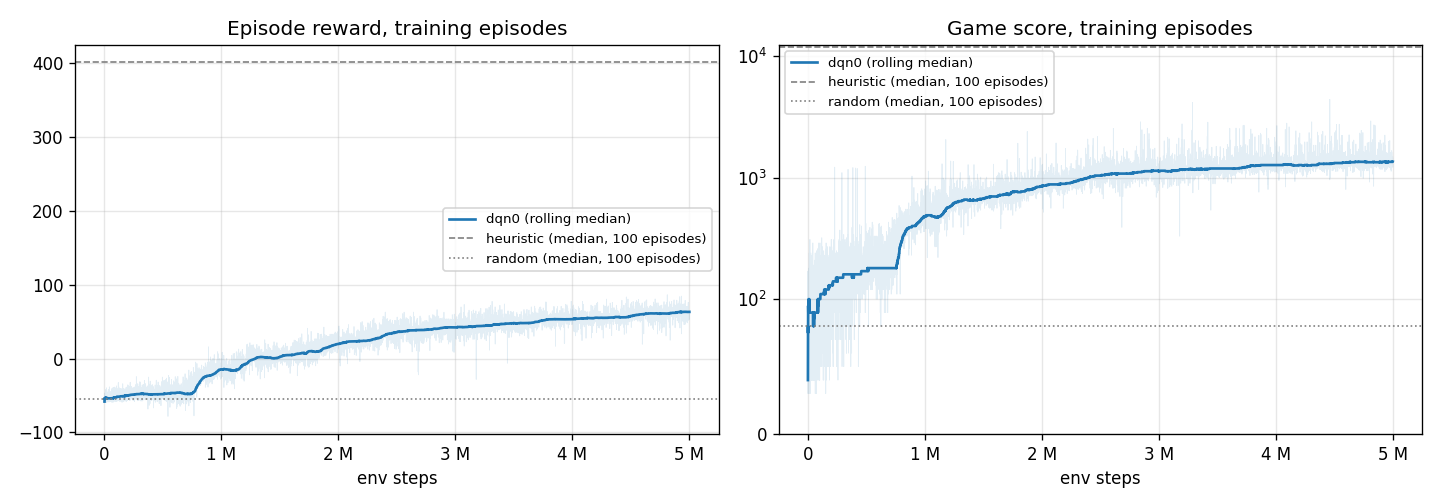
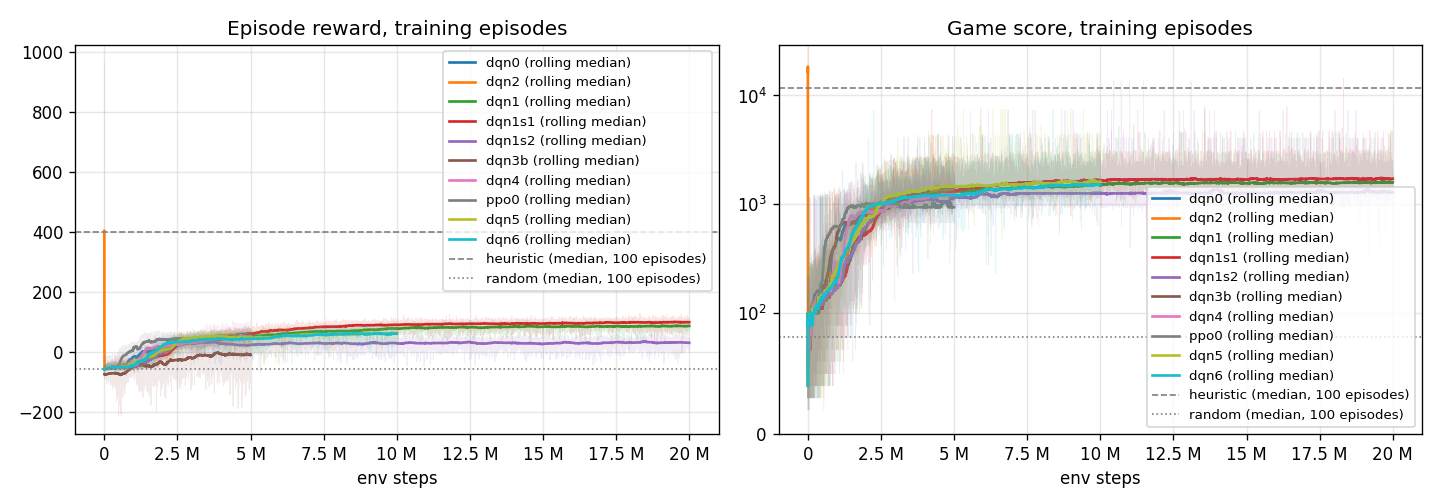
overnight: dqn1 seeds 1/2 evaluated, summary table, plots with all runs
dqn1 over 3 seeds (best_food.pt, 100 games, eps 0): mean food 140.6 +- 28.5
(151.6 / 168.8 / 101.5), level 1 never cleared. dqn1s1 eats 168.8 of 172
but always leaves the same two dots at (25,19), (27,19).

diff --git a/docs/results.md b/docs/results.md
@@ -44,18 +44,94 @@ Reward is the env's event reward (see docs/observation.md), score the game's.
 | dqn dqn1@19.00M | 20 | 0..19 | 40.3 | 46.9 | 1652 | 1610 | 1890 | 0% | 0% | 3411 | 10% | 44.0 | af91590 |
 | dqn dqn1@19.50M | 20 | 0..19 | 6.9 | -0.4 | 1716 | 1685 | 2250 | 0% | 0% | 6035 | 50% | 77.8 | af91590 |
 | dqn dqn1@20.00M | 20 | 0..19 | 21.0 | 45.4 | 1755 | 1600 | 3210 | 0% | 0% | 4551 | 25% | 29.3 | af91590 |
+| dqn dqn1s1/best_food.pt, eps 0 | 100 | 0..99 | 56.1 | 79.5 | 1983 | 1855 | 4690 | 0% | 0% | 3682 | 20% | 256.7 | 15d785e |
+| dqn dqn1s1/best_food.pt, eps 0.05 | 100 | 0..99 | 99.0 | 100.2 | 1847 | 1730 | 4750 | 0% | 0% | 592 | 0% | 39.7 | 15d785e |
+| dqn dqn1s1/best_food.pt, no ghosts, eps 0 | 3 | 0..2 | -121.0 | -121.0 | 710 | 710 | 710 | 0% | 0% | 10000 | 100% | 18.6 | 15d785e |
+| dqn dqn1s1/best_food.pt, no ghosts, eps 0.05 | 20 | 0..19 | -99.7 | -101.5 | 922 | 905 | 1460 | 0% | 0% | 10000 | 100% | 154.8 | 15d785e |
 | dqn dqn1s1@00.50M | 20 | 0..19 | -58.1 | -58.4 | 108 | 90 | 190 | 0% | 0% | 449 | 0% | 13.2 | b82dea5 |
 | dqn dqn1s1@01.00M | 20 | 0..19 | -52.1 | -51.8 | 155 | 150 | 180 | 0% | 0% | 379 | 0% | 10.7 | b82dea5 |
 | dqn dqn1s1@01.50M | 20 | 0..19 | -30.2 | -32.3 | 330 | 300 | 510 | 0% | 0% | 338 | 0% | 7.3 | 3d34d9e |
 | dqn dqn1s1@02.00M | 20 | 0..19 | -6.5 | -4.8 | 626 | 635 | 850 | 0% | 0% | 764 | 0% | 15.8 | 3d34d9e |
 | dqn dqn1s1@02.50M | 20 | 0..19 | 24.9 | 24.2 | 998 | 925 | 1900 | 0% | 0% | 613 | 0% | 13.0 | 3d34d9e |
 | dqn dqn1s1@03.00M | 20 | 0..19 | 34.5 | 33.6 | 1146 | 1030 | 2440 | 0% | 0% | 688 | 0% | 14.4 | 3d34d9e |
+| dqn dqn1s1@03.50M | 20 | 0..19 | 29.5 | 29.4 | 998 | 970 | 1150 | 0% | 0% | 774 | 0% | 16.1 | e8a886a |
+| dqn dqn1s1@04.00M | 20 | 0..19 | 44.4 | 41.4 | 1171 | 1140 | 1390 | 0% | 0% | 862 | 0% | 17.5 | e8a886a |
+| dqn dqn1s1@04.50M | 20 | 0..19 | 52.7 | 53.2 | 1252 | 1225 | 1820 | 0% | 0% | 721 | 0% | 14.2 | e8a886a |
+| dqn dqn1s1@05.00M | 20 | 0..19 | 65.0 | 66.0 | 1384 | 1350 | 2110 | 0% | 0% | 745 | 0% | 15.5 | e8a886a |
+| dqn dqn1s1@05.50M | 20 | 0..19 | 72.5 | 73.1 | 1546 | 1500 | 2150 | 0% | 0% | 897 | 0% | 18.7 | e8a886a |
+| dqn dqn1s1@06.00M | 20 | 0..19 | 75.2 | 76.2 | 1600 | 1520 | 2100 | 0% | 0% | 838 | 0% | 17.4 | e8a886a |
+| dqn dqn1s1@06.50M | 20 | 0..19 | 80.4 | 79.1 | 1592 | 1520 | 2250 | 0% | 0% | 801 | 0% | 16.7 | cc6fdbe |
+| dqn dqn1s1@07.00M | 20 | 0..19 | 82.5 | 84.3 | 1607 | 1585 | 2280 | 0% | 0% | 973 | 0% | 19.8 | cc6fdbe |
+| dqn dqn1s1@07.50M | 20 | 0..19 | 85.3 | 86.4 | 1784 | 1615 | 3000 | 0% | 0% | 918 | 0% | 19.2 | cc6fdbe |
+| dqn dqn1s1@08.00M | 20 | 0..19 | 78.9 | 82.7 | 1716 | 1630 | 2980 | 0% | 0% | 1362 | 0% | 27.5 | cc6fdbe |
+| dqn dqn1s1@08.50M | 20 | 0..19 | 75.6 | 77.8 | 1689 | 1635 | 2270 | 0% | 0% | 1455 | 0% | 29.7 | cc6fdbe |
+| dqn dqn1s1@09.00M | 20 | 0..19 | 80.7 | 88.2 | 1728 | 1670 | 2330 | 0% | 0% | 1675 | 5% | 33.2 | cc6fdbe |
+| dqn dqn1s1@09.50M | 20 | 0..19 | 76.0 | 83.6 | 1724 | 1690 | 2290 | 0% | 0% | 1649 | 0% | 29.3 | cc6fdbe |
+| dqn dqn1s1@10.00M | 20 | 0..19 | 83.1 | 82.5 | 1868 | 1700 | 3090 | 0% | 0% | 1561 | 0% | 31.5 | cc6fdbe |
+| dqn dqn1s1@10.50M | 20 | 0..19 | 72.7 | 82.4 | 1856 | 1700 | 3090 | 0% | 0% | 1978 | 0% | 39.6 | cc6fdbe |
+| dqn dqn1s1@11.00M | 20 | 0..19 | 74.1 | 76.8 | 1928 | 1730 | 3100 | 0% | 0% | 2144 | 0% | 43.3 | cc6fdbe |
+| dqn dqn1s1@11.50M | 20 | 0..19 | 77.9 | 80.8 | 1840 | 1700 | 3080 | 0% | 0% | 1818 | 0% | 36.7 | cc6fdbe |
+| dqn dqn1s1@12.00M | 20 | 0..19 | 71.8 | 76.6 | 1837 | 1730 | 3090 | 0% | 0% | 2119 | 0% | 39.3 | cc6fdbe |
+| dqn dqn1s1@12.50M | 20 | 0..19 | 75.0 | 81.6 | 1939 | 1730 | 4730 | 0% | 0% | 2047 | 0% | 37.6 | cc6fdbe |
+| dqn dqn1s1@13.00M | 20 | 0..19 | 63.6 | 75.2 | 1835 | 1690 | 3090 | 0% | 0% | 2621 | 5% | 46.4 | cc6fdbe |
+| dqn dqn1s1@13.50M | 20 | 0..19 | 75.8 | 78.0 | 1931 | 1725 | 3090 | 0% | 0% | 1980 | 0% | 35.7 | cc6fdbe |
+| dqn dqn1s1@14.00M | 20 | 0..19 | 66.6 | 82.1 | 1882 | 1700 | 3100 | 0% | 0% | 2431 | 5% | 46.2 | cc6fdbe |
+| dqn dqn1s1@14.50M | 20 | 0..19 | 68.6 | 76.3 | 1801 | 1730 | 2300 | 0% | 0% | 2414 | 5% | 44.9 | cc6fdbe |
+| dqn dqn1s1@15.00M | 20 | 0..19 | 60.7 | 77.7 | 1806 | 1700 | 2300 | 0% | 0% | 2782 | 5% | 51.6 | cc6fdbe |
+| dqn dqn1s1@15.50M | 20 | 0..19 | 65.1 | 80.0 | 1852 | 1730 | 3090 | 0% | 0% | 2793 | 10% | 55.8 | cc6fdbe |
+| dqn dqn1s1@16.00M | 20 | 0..19 | 79.4 | 87.4 | 1832 | 1730 | 3100 | 0% | 0% | 1929 | 5% | 38.1 | cc6fdbe |
+| dqn dqn1s1@16.50M | 20 | 0..19 | 44.6 | 59.3 | 1910 | 1745 | 3090 | 0% | 0% | 4132 | 20% | 81.0 | cc6fdbe |
+| dqn dqn1s1@17.00M | 20 | 0..19 | 67.4 | 80.6 | 1896 | 1710 | 3100 | 0% | 0% | 2459 | 5% | 43.2 | cc6fdbe |
+| dqn dqn1s1@17.50M | 20 | 0..19 | 59.1 | 79.9 | 1816 | 1720 | 3120 | 0% | 0% | 3272 | 20% | 60.6 | cc6fdbe |
+| dqn dqn1s1@18.00M | 20 | 0..19 | 66.9 | 83.6 | 2124 | 1760 | 4740 | 0% | 0% | 2898 | 10% | 54.2 | 15d785e |
+| dqn dqn1s1@18.50M | 20 | 0..19 | 38.6 | 55.3 | 1871 | 1760 | 3120 | 0% | 0% | 4375 | 15% | 80.5 | 15d785e |
+| dqn dqn1s1@19.00M | 20 | 0..19 | 53.3 | 76.3 | 2006 | 1760 | 4160 | 0% | 0% | 4038 | 30% | 80.5 | 15d785e |
+| dqn dqn1s1@19.50M | 20 | 0..19 | 66.4 | 81.7 | 1978 | 1760 | 3130 | 0% | 0% | 2830 | 5% | 56.2 | 15d785e |
+| dqn dqn1s1@20.00M | 20 | 0..19 | 44.7 | 64.4 | 1941 | 1760 | 4160 | 0% | 0% | 4095 | 15% | 53.6 | 15d785e |
+| dqn dqn1s2/best_food.pt, eps 0 | 100 | 0..99 | -28.9 | -20.8 | 1602 | 1470 | 4030 | 0% | 0% | 4462 | 6% | 159.8 | 15d785e |
+| dqn dqn1s2/best_food.pt, eps 0.05 | 100 | 0..99 | 26.5 | 31.9 | 1592 | 1370 | 4110 | 0% | 0% | 1572 | 0% | 51.1 | 15d785e |
+| dqn dqn1s2/best_food.pt, no ghosts, eps 0 | 3 | 0..2 | -196.0 | -196.0 | 40 | 40 | 40 | 0% | 0% | 10000 | 100% | 9.9 | 15d785e |
+| dqn dqn1s2/best_food.pt, no ghosts, eps 0.05 | 20 | 0..19 | -92.5 | -93.0 | 995 | 990 | 1010 | 0% | 0% | 10000 | 100% | 63.3 | 15d785e |
 | dqn dqn1s2@00.50M | 20 | 0..19 | -55.7 | -54.2 | 137 | 140 | 190 | 0% | 0% | 473 | 0% | 14.0 | b82dea5 |
 | dqn dqn1s2@01.00M | 20 | 0..19 | -46.9 | -46.2 | 218 | 225 | 370 | 0% | 0% | 508 | 0% | 14.3 | b82dea5 |
 | dqn dqn1s2@01.50M | 20 | 0..19 | -30.2 | -32.0 | 322 | 310 | 440 | 0% | 0% | 327 | 0% | 7.1 | 3d34d9e |
 | dqn dqn1s2@02.00M | 20 | 0..19 | 6.1 | 5.6 | 694 | 665 | 830 | 0% | 0% | 409 | 0% | 8.7 | 3d34d9e |
 | dqn dqn1s2@02.50M | 20 | 0..19 | 33.9 | 34.5 | 1054 | 1040 | 1380 | 0% | 0% | 733 | 0% | 15.0 | 3d34d9e |
 | dqn dqn1s2@03.00M | 20 | 0..19 | 19.6 | 20.1 | 926 | 945 | 1150 | 0% | 0% | 838 | 0% | 17.3 | 3d34d9e |
+| dqn dqn1s2@03.50M | 20 | 0..19 | 26.0 | 28.8 | 1148 | 1065 | 1650 | 0% | 0% | 1228 | 0% | 25.5 | e8a886a |
+| dqn dqn1s2@04.00M | 20 | 0..19 | 10.1 | 17.9 | 1350 | 1160 | 4100 | 0% | 0% | 2168 | 0% | 43.4 | e8a886a |
+| dqn dqn1s2@04.50M | 20 | 0..19 | 5.3 | 10.4 | 1124 | 1105 | 1370 | 0% | 0% | 2253 | 0% | 45.3 | e8a886a |
+| dqn dqn1s2@05.00M | 20 | 0..19 | -4.7 | -3.2 | 1361 | 1260 | 2460 | 0% | 0% | 2967 | 0% | 59.3 | e8a886a |
+| dqn dqn1s2@05.50M | 20 | 0..19 | -12.4 | -11.8 | 1256 | 1215 | 1770 | 0% | 0% | 3352 | 0% | 66.2 | e8a886a |
+| dqn dqn1s2@06.00M | 20 | 0..19 | -22.1 | -8.2 | 1381 | 1215 | 2490 | 0% | 0% | 3872 | 0% | 77.1 | cc6fdbe |
+| dqn dqn1s2@06.50M | 20 | 0..19 | -18.4 | -5.6 | 1278 | 1260 | 1670 | 0% | 0% | 3712 | 5% | 74.9 | cc6fdbe |
+| dqn dqn1s2@07.00M | 20 | 0..19 | -3.2 | 4.7 | 1376 | 1260 | 2570 | 0% | 0% | 2953 | 0% | 58.8 | cc6fdbe |
+| dqn dqn1s2@07.50M | 20 | 0..19 | -27.8 | -17.2 | 1209 | 1170 | 1670 | 0% | 0% | 4270 | 10% | 83.6 | cc6fdbe |
+| dqn dqn1s2@08.00M | 20 | 0..19 | -12.8 | -3.3 | 1414 | 1270 | 2460 | 0% | 0% | 3359 | 0% | 64.9 | cc6fdbe |
+| dqn dqn1s2@08.50M | 20 | 0..19 | -15.1 | -9.8 | 1311 | 1175 | 2460 | 0% | 0% | 3461 | 0% | 69.2 | cc6fdbe |
+| dqn dqn1s2@09.00M | 20 | 0..19 | -7.1 | 2.7 | 1443 | 1365 | 2570 | 0% | 0% | 3235 | 0% | 64.6 | cc6fdbe |
+| dqn dqn1s2@09.50M | 20 | 0..19 | -22.4 | -11.1 | 1414 | 1255 | 4040 | 0% | 0% | 3917 | 5% | 77.8 | cc6fdbe |
+| dqn dqn1s2@10.00M | 20 | 0..19 | -29.6 | -17.3 | 1413 | 1275 | 2460 | 0% | 0% | 4234 | 0% | 81.9 | cc6fdbe |
+| dqn dqn1s2@10.50M | 20 | 0..19 | -14.6 | -0.8 | 1634 | 1305 | 2570 | 0% | 0% | 3542 | 0% | 69.4 | cc6fdbe |
+| dqn dqn1s2@11.00M | 20 | 0..19 | -14.4 | -6.8 | 1502 | 1270 | 4070 | 0% | 0% | 3555 | 0% | 72.3 | cc6fdbe |
+| dqn dqn1s2@11.50M | 20 | 0..19 | -12.1 | -5.2 | 1350 | 1175 | 3170 | 0% | 0% | 3594 | 10% | 73.3 | cc6fdbe |
+| dqn dqn1s2@12.00M | 20 | 0..19 | -9.7 | 2.8 | 1272 | 1195 | 2430 | 0% | 0% | 3032 | 0% | 61.2 | cc6fdbe |
+| dqn dqn1s2@12.50M | 20 | 0..19 | -57.2 | -49.1 | 1419 | 1250 | 2490 | 0% | 0% | 5655 | 5% | 112.5 | cc6fdbe |
+| dqn dqn1s2@13.00M | 20 | 0..19 | -31.4 | -34.2 | 1328 | 1155 | 2450 | 0% | 0% | 4311 | 5% | 83.1 | cc6fdbe |
+| dqn dqn1s2@13.50M | 20 | 0..19 | -41.1 | -35.0 | 1436 | 1245 | 4080 | 0% | 0% | 4824 | 5% | 93.0 | cc6fdbe |
+| dqn dqn1s2@14.00M | 20 | 0..19 | -41.0 | -33.7 | 1864 | 1265 | 9270 | 0% | 0% | 4918 | 5% | 95.4 | cc6fdbe |
+| dqn dqn1s2@14.50M | 20 | 0..19 | -34.1 | -28.4 | 1833 | 1615 | 4410 | 0% | 0% | 5046 | 25% | 97.9 | cc6fdbe |
+| dqn dqn1s2@15.00M | 20 | 0..19 | -41.7 | -31.8 | 1521 | 1260 | 2460 | 0% | 0% | 4964 | 10% | 100.6 | cc6fdbe |
+| dqn dqn1s2@15.50M | 20 | 0..19 | -15.1 | -13.9 | 1388 | 1265 | 2470 | 0% | 0% | 3482 | 0% | 67.9 | cc6fdbe |
+| dqn dqn1s2@16.00M | 20 | 0..19 | -27.5 | -10.7 | 1736 | 1325 | 5080 | 0% | 0% | 4253 | 0% | 84.6 | cc6fdbe |
+| dqn dqn1s2@16.50M | 20 | 0..19 | -26.8 | -15.6 | 2284 | 1670 | 7080 | 0% | 0% | 4811 | 25% | 94.6 | 15d785e |
+| dqn dqn1s2@17.00M | 20 | 0..19 | -12.1 | -10.0 | 1707 | 1515 | 2770 | 0% | 0% | 3390 | 0% | 67.8 | 15d785e |
+| dqn dqn1s2@17.50M | 20 | 0..19 | -43.8 | -36.5 | 1707 | 1395 | 3070 | 0% | 0% | 5251 | 20% | 97.9 | 15d785e |
+| dqn dqn1s2@18.00M | 20 | 0..19 | -23.6 | -26.0 | 1379 | 1285 | 2620 | 0% | 0% | 4062 | 5% | 76.2 | 15d785e |
+| dqn dqn1s2@18.50M | 20 | 0..19 | -34.1 | -34.8 | 1542 | 1305 | 2500 | 0% | 0% | 4670 | 5% | 92.2 | 15d785e |
+| dqn dqn1s2@19.00M | 20 | 0..19 | -39.2 | -40.6 | 1662 | 1340 | 2500 | 0% | 0% | 5060 | 10% | 99.5 | 15d785e |
+| dqn dqn1s2@19.50M | 20 | 0..19 | -48.1 | -47.0 | 1650 | 1380 | 2450 | 0% | 0% | 5739 | 25% | 112.3 | 15d785e |
+| dqn dqn1s2@20.00M | 20 | 0..19 | -39.4 | -22.5 | 1671 | 1395 | 3260 | 0% | 0% | 4962 | 5% | 32.7 | 15d785e |
 | dqn dqn2/best.pt | 100 | 0..99 | 56.5 | 59.2 | 1483 | 1420 | 2670 | 0% | 0% | 1088 | 0% | 72.9 | 7f96361 |
 | dqn dqn3b/best.pt | 100 | 0..99 | 62.2 | 62.4 | 1610 | 1490 | 3070 | 0% | 0% | 996 | 0% | 65.9 | af91590 |
 | dqn dqn3b@01.50M | 20 | 0..19 | -0.1 | 0.6 | 691 | 720 | 760 | 0% | 0% | 510 | 0% | 10.5 | af91590 |
@@ -205,5 +281,9 @@ Final evaluation of each run's chosen checkpoint: 100 games, seeds 0..99, eps 0,
 | dqn4 | best.pt (5.0M) | + hunger_limit 200, 4 actions | 112.9 | 0% | 43.0 | 1285 | 2450 | 0% | 172 | - |
 | ppo0 | best.pt (2.0M) | PPO, hunger_limit 200, 4 actions | 99.8 | 0% | 35.7 | 1020 | 1330 | 0% | 6 | - |
 | dqn1 | best_food.pt (17.5M) | 20M steps, eps over 3M; seed 0, picked by food | 151.6 | 0% | 42.9 | 1680 | 2980 | 16% | 1190 | 146.4 / 85.4 |
+| dqn1s1 | best_food.pt (19.5M) | dqn1 setup, seed 1 | 168.8 | 0% | 56.1 | 1855 | 4690 | 20% | 488 | 159.4 / 99.0 |
+| dqn1s2 | best_food.pt (18.5M) | dqn1 setup, seed 2 | 101.5 | 0% | -28.9 | 1470 | 4030 | 6% | 3622 | 101.2 / 26.5 |
 | dqn5 | best_food.pt (10.0M) | dqn1 + food-distance channel + steps since food, 10M | 127.4 | 0% | 20.4 | 1950 | 7480 | 20% | 602 | 125.6 / 67.0 |
 | dqn6 | best_food.pt (10.0M) | dqn5 + n_step 5, gamma 0.995 | 130.8 | 0% | 51.1 | 1685 | 5450 | 0% | 344 | 127.8 / 60.8 |
+
+dqn1 over 3 seeds (mean +- std): food 140.6 +- 28.5, reward 23.4 +- 37.4, score 1668.3 +- 157.4, level 1 cleared 0%

diff --git a/docs/overnight.md b/docs/overnight.md
@@ -91,6 +91,23 @@ eps = 0, checkpoint `best_food.pt`).
 - 17:03 dqn1s1 at 17.6M (best_food.pt = 11M, 165.2 on seeds 0..19),
   dqn1s2 at 16.5M (best 11.5M, 101.0), both ~1.5k steps/s, no crash. Final
   evaluations set to start by themselves when each run finishes.
+- 17:40 dqn1s1 finished (no crash); best_food.pt = 19.5M (169.3 on seeds
+  0..19). 100 games eps 0: **mean food 168.8 of 172** (by the criteria this
+  is SUCCESS, also 168.7 on seeds 20..99), but **level 1 cleared 0%**, mean
+  reward 56.1, 20% stuck. eps 0.05: food 159.4, mean reward 99.0 (the best
+  mean reward of all runs), none stuck.
+- 17:45 Where the last dots stay (dqn1s1 best_food.pt, seeds 0..9, fewest
+  dots left in each game): 2, 4, 5, 2, 2, 2, 2, 2, 2, 2. In all 10 games the
+  same two dots are left: (25, 19) and (27, 19), in the bottom-right pocket
+  of the maze. A systematic blind spot, not chance.
+- 17:48 dqn1s2 finished (no crash); best_food.pt = 18.5M. 100 games eps 0:
+  food 101.5, mean reward -28.9, 6% stuck: FAILURE. It never got past ~100
+  food after 2.5M.
+- 17:50 Final: summary table in docs/results.md ("## Summary of all runs"),
+  docs/training.png and docs/eval.png with all runs. dqn1 over 3 seeds
+  (best_food.pt, 100 games, eps 0): food 140.6 +- 28.5, mean reward
+  23.4 +- 37.4, median score 1668 +- 157, level 1 cleared 0% in every seed.
+  Nothing is training any more.
 
 ## Ideas for later
 
@@ -119,3 +136,7 @@ eps = 0, checkpoint `best_food.pt`).
 - Train the end of the level directly: start some episodes from boards with
   few dots left (needs a game option to remove dots), since that is the part
   no agent learned.
+
+- The two dots at (25, 19) and (27, 19) that dqn1s1 never eats: check
+  whether the agent ever visits that pocket in training (state visitation
+  counts), and whether episodes starting there would fix it.
